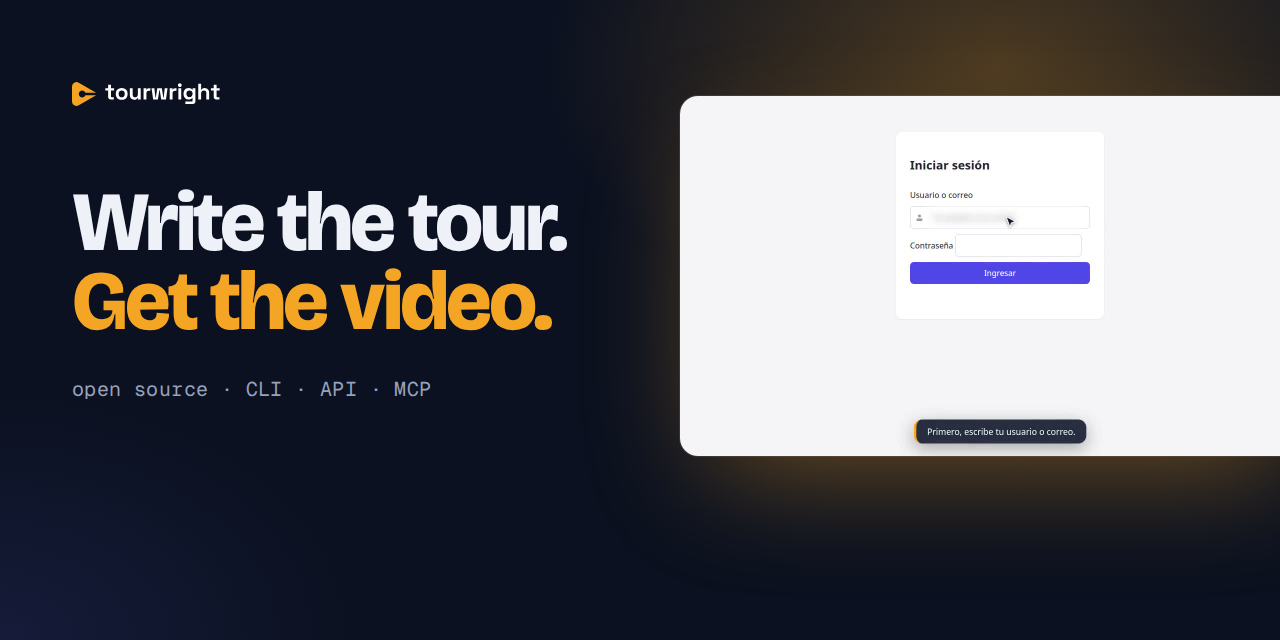
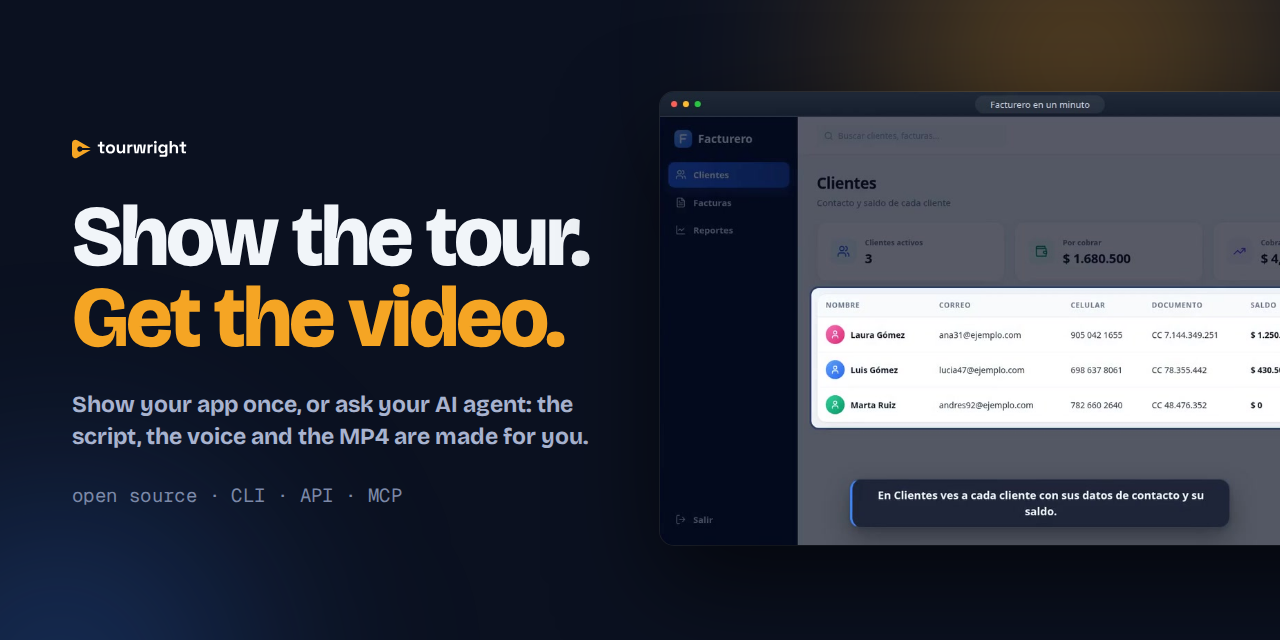
💄 fix(sitio): imagen social y presentación con el mensaje nuevo
Al compartir el enlace del repositorio o de la página, la imagen decía
"Write the tour" junto al login de la app de prueba anterior, y el README
abría pidiendo escribir lo que pasa en pantalla: el mismo mensaje que
alejaba a quien no programa y que la página ya había dejado atrás.

La imagen ahora dice "Show the tour. Get the video.", explica que basta
con mostrar la app una vez o pedirle el video al agente, y enseña la
ventana de estudio del demo de Facturero con datos inventados en
pantalla. El README, en inglés y en español, abre con la misma idea: el
guion, la voz natural y el video se hacen solos, y si la interfaz cambia
basta con volver a generarlo.

diff --git a/README.es.md b/README.es.md
@@ -10,9 +10,11 @@
 [![License: MIT](https://img.shields.io/badge/license-MIT-blue)](LICENSE)
 [![MCP](https://img.shields.io/badge/MCP-server-8a2be2)](docs/AGENTS.md)
 
-**Recorridos guiados y narrados, a partir de un guion.** Escribes lo que pasa en pantalla y lo que se dice;
-Tourwright graba un navegador de verdad (o arma diapositivas), lleva la mirada a cada elemento, sintetiza la
-voz y entrega un `.mp4` con subtítulos, capítulos y miniatura. Hecho para personas *y* para agentes de IA, en cualquier servidor: de un portátil a un clúster.
+**Videos guiados y narrados de tu producto, sin editar.** Haces el recorrido por tu app una vez, o le pides el
+video a tu agente de IA: Tourwright escribe el guion, graba un navegador de verdad en un marco de estudio, lleva
+la mirada a cada elemento, habla con una voz natural y entrega un `.mp4` con subtítulos, capítulos y miniatura.
+Si la interfaz cambia, lo vuelves a generar. Hecho para personas *y* para agentes de IA, en cualquier servidor:
+de un portátil a un clúster.
 
 *[Read in English](README.md)*
 

diff --git a/README.md b/README.md
@@ -10,9 +10,10 @@
 [![License: MIT](https://img.shields.io/badge/license-MIT-blue)](LICENSE)
 [![MCP](https://img.shields.io/badge/MCP-server-8a2be2)](docs/AGENTS.md)
 
-**Scripted, narrated product tours.** Write what should happen on screen and what should be said; Tourwright
-films a real browser (or builds slides), guides the eye to each element, synthesizes the voice, and delivers
-an `.mp4` with captions, chapters, subtitles and a thumbnail. Built for people *and* AI agents, on any server, from a laptop to a cluster.
+**Narrated product tours and how-to videos, without editing.** Click through your app once, or ask your AI
+agent for the video: Tourwright writes the script, films a real browser in a studio frame, guides the eye to each
+element, speaks with a natural voice and delivers an `.mp4` with captions, chapters and a thumbnail. When the UI
+changes, you render again. Built for people *and* AI agents, on any server, from a laptop to a cluster.
 
 *[Leer en español](README.es.md)*
 
